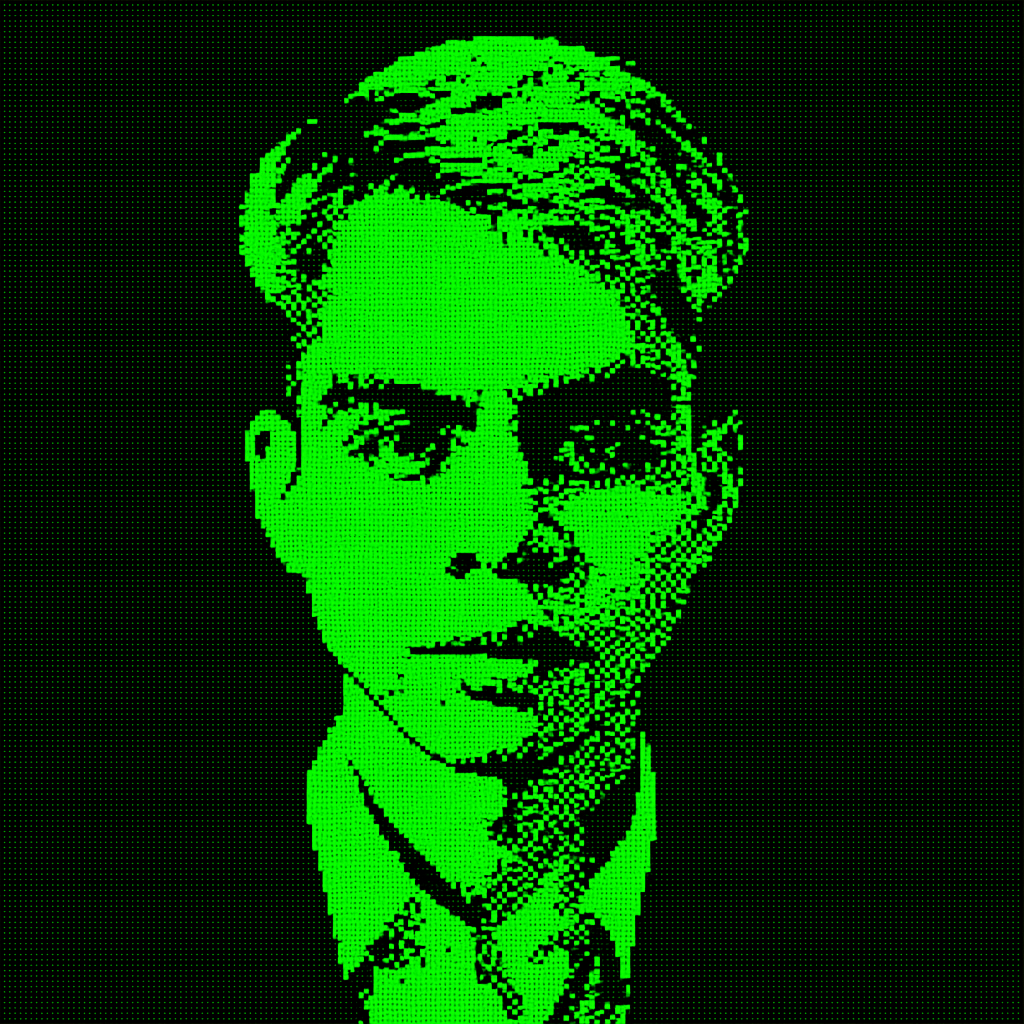
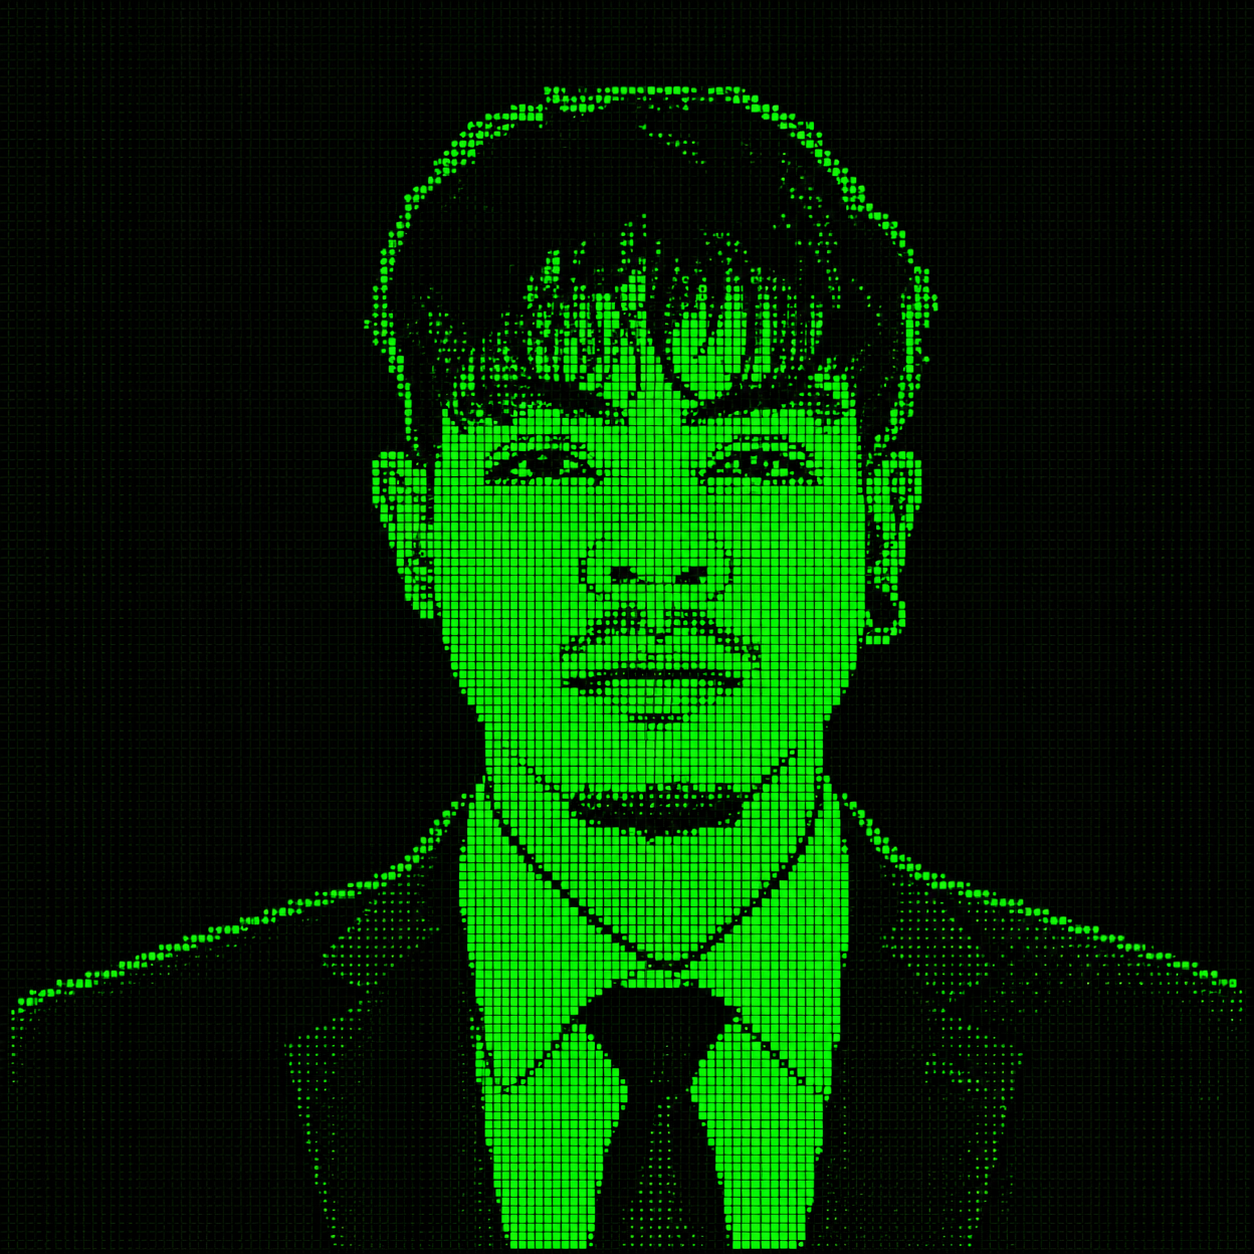
UPDATE: Skills & Photo Profile

diff --git a/src/App.jsx b/src/App.jsx
@@ -1191,39 +1191,41 @@ const ContentArea = ({ currentFile, selectedTool, gridOn, drawColor, shapes, set
         )}
 
         {currentFile === "SKILLS.sketch" && (
-          <div>
-            <h2 className="text-xl border-b-2 border-green-500 pb-2 mb-4">
-              <TerminalText text="CORE_STACK" speed={50} /></h2>
-            <div className="grid grid-cols-1 md:grid-cols-2 gap-4">
-              <div>
-                {skills.slice(0, 5).map((skill, i) => (
-                  <SkillBar key={skill.name} name={skill.name} percentage={skill.percentage} delay={i * 100} />
-                ))}
-              </div>
-              <div>
-                {skills.slice(5).map((skill, i) => (
-                  <SkillBar key={skill.name} name={skill.name} percentage={skill.percentage} delay={(i + 5) * 100} />
-                ))}
+          <>
+            <div>
+              <h2 className="text-xl border-b-2 border-green-500 pb-2 mb-4">
+                <TerminalText text="CORE_STACK" speed={50} /></h2>
+              <div className="grid grid-cols-1 md:grid-cols-2 gap-4">
+                <div>
+                  {skills.slice(0, 5).map((skill, i) => (
+                    <SkillBar key={skill.name} name={skill.name} percentage={skill.percentage} delay={i * 100} />
+                  ))}
+                </div>
+                <div>
+                  {skills.slice(5).map((skill, i) => (
+                    <SkillBar key={skill.name} name={skill.name} percentage={skill.percentage} delay={(i + 5) * 100} />
+                  ))}
+                </div>
               </div>
             </div>
-          </div>
 
-          <div>
-            <h2 className="text-xl border-b-2 border-green-500 pb-2 mb-4">
-              <TerminalText text="OTHER_SKILLS" speed={50} /></h2>
-            <div className="grid grid-cols-1 md:grid-cols-2 gap-4">
-              <div>
-                {otherSkills.slice(0, 5).map((skill, i) => (
-                  <SkillBar key={skill.name} name={skill.name} percentage={skill.percentage} delay={i * 100} />
-                ))}
-              </div>
-              <div>
-                {otherSkills.slice(5).map((skill, i) => (
-                  <SkillBar key={skill.name} name={skill.name} percentage={skill.percentage} delay={(i + 5) * 100} />
-                ))}
+            <div>
+              <h2 className="text-xl border-b-2 border-green-500 pb-2 mb-4">
+                <TerminalText text="OTHER_SKILLS" speed={50} /></h2>
+              <div className="grid grid-cols-1 md:grid-cols-2 gap-4">
+                <div>
+                  {otherSkills.slice(0, 5).map((skill, i) => (
+                    <SkillBar key={skill.name} name={skill.name} percentage={skill.percentage} delay={i * 100} />
+                  ))}
+                </div>
+                <div>
+                  {otherSkills.slice(5).map((skill, i) => (
+                    <SkillBar key={skill.name} name={skill.name} percentage={skill.percentage} delay={(i + 5) * 100} />
+                  ))}
+                </div>
               </div>
             </div>
-          </div>
+          </>
         )}
 
         {currentFile === "CERTIFICATIONS.sketch" && (
